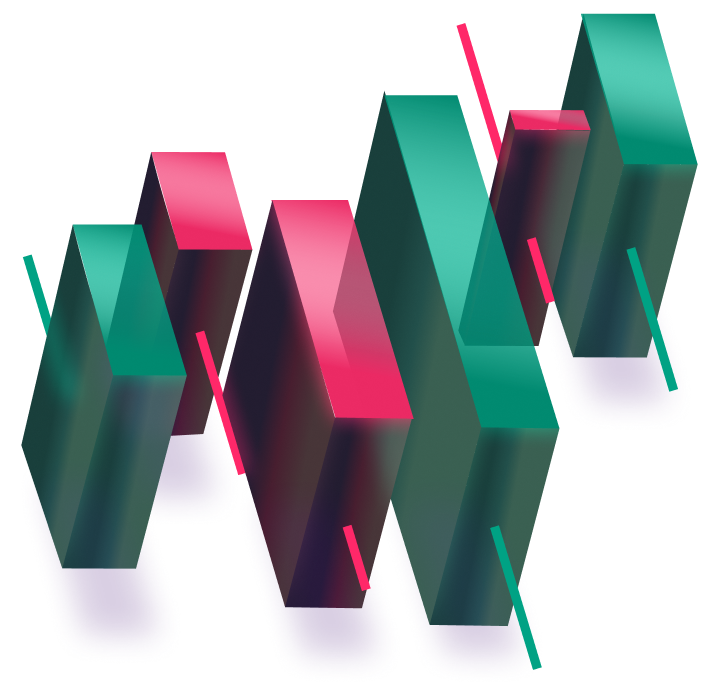
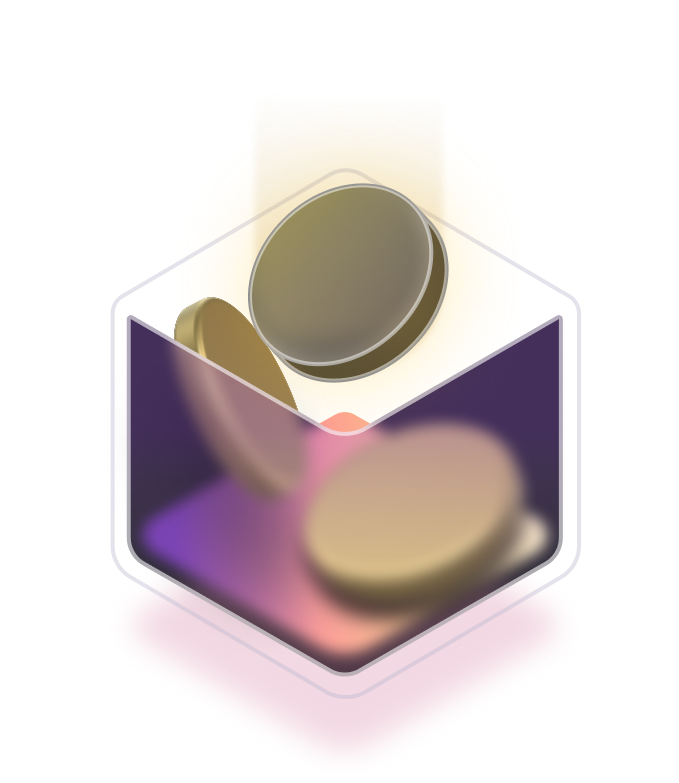
feat: trading panel on default interface with empty state

diff --git a/apps/dashboard/src/components/widgets/ascendex/trading-panel/balances-tab/index.tsx b/apps/dashboard/src/components/widgets/ascendex/trading-panel/balances-tab/index.tsx
@@ -1,0 +1,114 @@
+"use client";
+import React from "react";
+import Image from "next/image";
+import dashboard from "@/lib/assets/dashboard";
+
+interface BalanceData {
+  coin: string;
+  coinIcon: string;
+  contract: string;
+  totalBalance: number;
+  usdcValue: number;
+  pnl: number;
+  pnlPercentage: number;
+  contractType: string;
+}
+
+// Dummy data for initial display
+const DUMMY_BALANCES: BalanceData[] = [];
+
+interface BalancesTabProps {
+  hideSmallBalances: boolean;
+}
+
+export default function BalancesTab({ hideSmallBalances }: BalancesTabProps) {
+  const filteredBalances = hideSmallBalances
+    ? DUMMY_BALANCES.filter((balance) => balance.usdcValue > 1)
+    : DUMMY_BALANCES;
+
+  return (
+    <div className="flex flex-col h-full">
+      {/* Table Header */}
+      <div
+        className="grid items-center border-b border-[#0C0C0C] px-3"
+        style={{
+          gridTemplateColumns: "1fr 1fr 1fr 1fr 1fr 1fr",
+          height: "32px",
+        }}
+      >
+        <div className="text-[#84858C] text-[12px]">Coin</div>
+        <div className="text-[#84858C] text-[12px]">Contract</div>
+        <div className="text-[#84858C] text-[12px]">Total Balance</div>
+        <div className="text-[#84858C] text-[12px]">USDC Value</div>
+        <div className="text-[#84858C] text-[12px]">PNL (ROE%)</div>
+        <div className="text-[#84858C] text-[12px]">Contract</div>
+      </div>
+
+      {/* Table Body */}
+      <div className="flex-1 overflow-auto">
+        {filteredBalances.length === 0 ? (
+          <div className="flex flex-col min-h-[375px] h-full items-center justify-center bg-[#191B20] rounded-[6px] my-1">
+            <Image src={dashboard.noDeposits} alt="No balances" width={168} height={168} className="mb-4" />
+            <p className="text-white text-[20px] font-semibold">No balances to display</p>
+          </div>
+        ) : (
+          filteredBalances.map((balance, index) => (
+            <div
+              key={index}
+              className="grid items-center border-b border-[#0C0C0C] px-3 hover:bg-[#1C1D21] transition-colors"
+              style={{
+                gridTemplateColumns: "1fr 1fr 1fr 1fr 1fr 1fr",
+                height: "48px",
+              }}
+            >
+              {/* Coin */}
+              <div className="flex items-center gap-2">
+                <div className="relative w-6 h-6">
+                  <Image
+                    src={balance.coinIcon}
+                    alt={balance.coin}
+                    fill
+                    className="rounded-full"
+                  />
+                </div>
+                <span className="text-white text-[12px] font-medium">{balance.coin}</span>
+              </div>
+
+              {/* Contract */}
+              <div className="text-white text-[12px]">{balance.contract}</div>
+
+              {/* Total Balance */}
+              <div className="text-white text-[12px]">{balance.totalBalance.toFixed(4)}</div>
+
+              {/* USDC Value */}
+              <div className="text-white text-[12px]">${balance.usdcValue.toFixed(2)}</div>
+
+              {/* PNL (ROE%) */}
+              <div className="flex flex-col">
+                <span
+                  className={`text-[12px] ${
+                    balance.pnl >= 0 ? "text-green-500" : "text-red-500"
+                  }`}
+                >
+                  ${balance.pnl >= 0 ? "+" : ""}
+                  {balance.pnl.toFixed(2)}
+                </span>
+                <span
+                  className={`text-[10px] ${
+                    balance.pnlPercentage >= 0 ? "text-green-500" : "text-red-500"
+                  }`}
+                >
+                  ({balance.pnlPercentage >= 0 ? "+" : ""}
+                  {balance.pnlPercentage.toFixed(2)}%)
+                </span>
+              </div>
+
+              {/* Contract Type */}
+              <div className="text-[#84858C] text-[12px]">{balance.contractType}</div>
+            </div>
+          ))
+        )}
+      </div>
+    </div>
+  );
+}

diff --git a/apps/dashboard/src/components/widgets/ascendex/trading-panel/index.tsx b/apps/dashboard/src/components/widgets/ascendex/trading-panel/index.tsx
@@ -1,0 +1,90 @@
+"use client";
+import React, { useState } from "react";
+import BalancesTab from "./balances-tab";
+import OpenOrdersTab from "./open-orders";
+import OrderHistoryTab from "./order-history";
+import NewsTab from "./news-tab";
+import Checkbox from "@/components/ui/checkbox";
+
+export default function TradingPanel() {
+  const [activeTab, setActiveTab] = useState("Balances");
+  const [hideSmallBalances, setHideSmallBalances] = useState(false);
+
+  const tabs = ["Balances", "Open Orders", "Order History", "News"];
+
+  const renderTabContent = () => {
+    switch (activeTab) {
+      case "Balances":
+        return <BalancesTab hideSmallBalances={hideSmallBalances} />;
+      case "Open Orders":
+        return <OpenOrdersTab />;
+      case "Order History":
+        return <OrderHistoryTab />;
+      case "News":
+        return <NewsTab />;
+      default:
+        return <BalancesTab hideSmallBalances={hideSmallBalances} />;
+    }
+  };
+
+  return (
+    <div className="bg-[#121317] rounded-[6px] flex flex-col mb-2">
+      {/* Header with Tabs and Hide Small Balances */}
+      <div
+        className="flex items-center justify-between border-b border-[#0C0C0C]"
+        style={{
+          height: "40px",
+          paddingTop: "8px",
+          paddingRight: "12px",
+          paddingBottom: "8px",
+          paddingLeft: "12px",
+        }}
+      >
+        {/* Tabs */}
+        <div className="flex items-center gap-2">
+          {tabs.map((tab, index) => (
+            <button
+              key={`${tab}-${index}`}
+              onClick={() => setActiveTab(tab)}
+              className={`rounded-[6px] text-[12px] font-medium transition-colors ${
+                activeTab === tab
+                  ? "bg-[#222329] text-white"
+                  : "bg-transparent text-[#84858C] hover:text-white"
+              }`}
+              style={{
+                height: "24px",
+                paddingTop: "4px",
+                paddingRight: "12px",
+                paddingBottom: "4px",
+                paddingLeft: "12px",
+              }}
+            >
+              {tab}
+            </button>
+          ))}
+        </div>
+
+        {/* Hide Small Balances Toggle */}
+        {activeTab === "Balances" && (
+          <Checkbox
+            label="Hide Small Balances"
+            checked={hideSmallBalances}
+            onCheckedChange={setHideSmallBalances}
+            labelClassName="text-white text-[12px]"
+          />
+        )}
+      </div>
+
+      {/* Your Balances */}
+      {activeTab === "Balances" && (
+        <div className="px-3 py-2 border-b border-[#0C0C0C]">
+          <div className="text-[#84858C] text-[12px]">Your Balances</div>
+          <div className="text-white text-[16px] font-medium">$ 0.00</div>
+        </div>
+      )}
+
+      {/* Content */}
+      <div className="flex-1 overflow-auto">{renderTabContent()}</div>
+    </div>
+  );
+}

diff --git a/apps/dashboard/src/components/widgets/ascendex/ascendex.tsx b/apps/dashboard/src/components/widgets/ascendex/ascendex.tsx
@@ -10,6 +10,7 @@ import { LandingScreen } from "./initial";
 import ChartHeader from "./chart/chart-header";
 import Balance from "./balance";
 import { TradingView } from "./chart/trading-view";
+import TradingPanel from "./trading-panel";
 
 interface IProps {
   widget: LayoutType["widgets"][0];
@@ -44,25 +45,36 @@ export default function Ascendex(props: IProps) {
           <div
             className={cn(
               "relative flex h-full w-full flex-col gap-2 overflow-hidden rounded-2xl",
-              "px-0 pb-0 bg-[#000]",
+              "px-0 pb-2 bg-[#000]",
             )}
           >
             <AscendexHeader widget={widget} activeView={activeView} onViewChange={handleViewChange} />
 
             {/* Trading*/}
             <RenderIf condition={showTradingInterface}>
-              <div className="flex h-full w-full flex-1 overflow-hidden gap-3 px-2 pb-2">
-                <div className="flex-1 flex flex-col gap-2 min-w-0 overflow-hidden">
-                  <ChartHeader />
+              <div className="flex h-full w-full flex-1 overflow-y-auto gap-3 px-2 pb-2">
+                {/* Left + Middle section: Chart, OrderBook, and Trading Panel */}
+                <div className="flex-1 flex flex-col gap-3 min-w-0">
+                  {/* Top row: Chart and OrderBook */}
+                  <div className="flex gap-3">
+                    <div className="flex-1 flex flex-col gap-2 min-w-0">
+                      <ChartHeader />
+                      {/* Chart placeholder */}
+                      <div className="bg-[#121317] rounded-[6px] flex items-center justify-center relative overflow-hidden" style={{ height: "500px" }}>
+                        <TradingView />
+                      </div>
+                    </div>
 
-                  {/* Chart placeholder */}
-                  <div className="flex-1 bg-[#121317] rounded-[6px] flex items-center justify-center relative overflow-hidden">
-                    <TradingView />
+                    <OrderBookAndTrade />
+                  </div>
+
+                  {/* Trading Panel under Chart and OrderBook */}
+                  <div style={{ height: "280px" }}>
+                    <TradingPanel />
                   </div>
                 </div>
 
-                <OrderBookAndTrade />
-
+                {/* Right section: CreateOrder */}
                 <CreateOrder />
               </div>
             </RenderIf>

diff --git a/apps/dashboard/src/components/widgets/ascendex/trading-panel/order-history/index.tsx b/apps/dashboard/src/components/widgets/ascendex/trading-panel/order-history/index.tsx
@@ -1,0 +1,13 @@
+"use client";
+import React from "react";
+import Image from "next/image";
+import dashboard from "@/lib/assets/dashboard";
+
+export default function OrderHistoryTab() {
+  return (
+    <div className="flex flex-col min-h-[375px] h-full items-center justify-center bg-[#191B20] rounded-[6px] my-1">
+      <Image src={dashboard.noOpenOrders} alt="No Order History" width={168} height={168} className="mb-4" />
+      <p className="text-white text-[20px] font-semibold">No Order History</p>
+    </div>
+  );
+}

diff --git a/apps/dashboard/src/components/widgets/ascendex/trading-panel/open-orders/index.tsx b/apps/dashboard/src/components/widgets/ascendex/trading-panel/open-orders/index.tsx
@@ -1,0 +1,13 @@
+"use client";
+import React from "react";
+import Image from "next/image";
+import dashboard from "@/lib/assets/dashboard";
+
+export default function OpenOrdersTab() {
+  return (
+    <div className="flex flex-col min-h-[375px] h-full items-center justify-center bg-[#191B20] rounded-[6px] my-1">
+      <Image src={dashboard.noOpenOrders} alt="No Open Orders" width={168} height={168} className="mb-4" />
+      <p className="text-white text-[20px] font-semibold">No Open Orders</p>
+    </div>
+  );
+}

diff --git a/apps/dashboard/src/components/widgets/ascendex/trading-panel/news-tab/index.tsx b/apps/dashboard/src/components/widgets/ascendex/trading-panel/news-tab/index.tsx
@@ -1,0 +1,13 @@
+"use client";
+import React from "react";
+import Image from "next/image";
+import dashboard from "@/lib/assets/dashboard";
+
+export default function NewsTab() {
+  return (
+    <div className="flex flex-col min-h-[375px] h-full items-center justify-center bg-[#191B20] rounded-[6px] my-1">
+      <Image src={dashboard.noOpenOrders} alt="No News" width={168} height={168} className="mb-4" />
+      <p className="text-white text-[20px] font-semibold">No News</p>
+    </div>
+  );
+}
